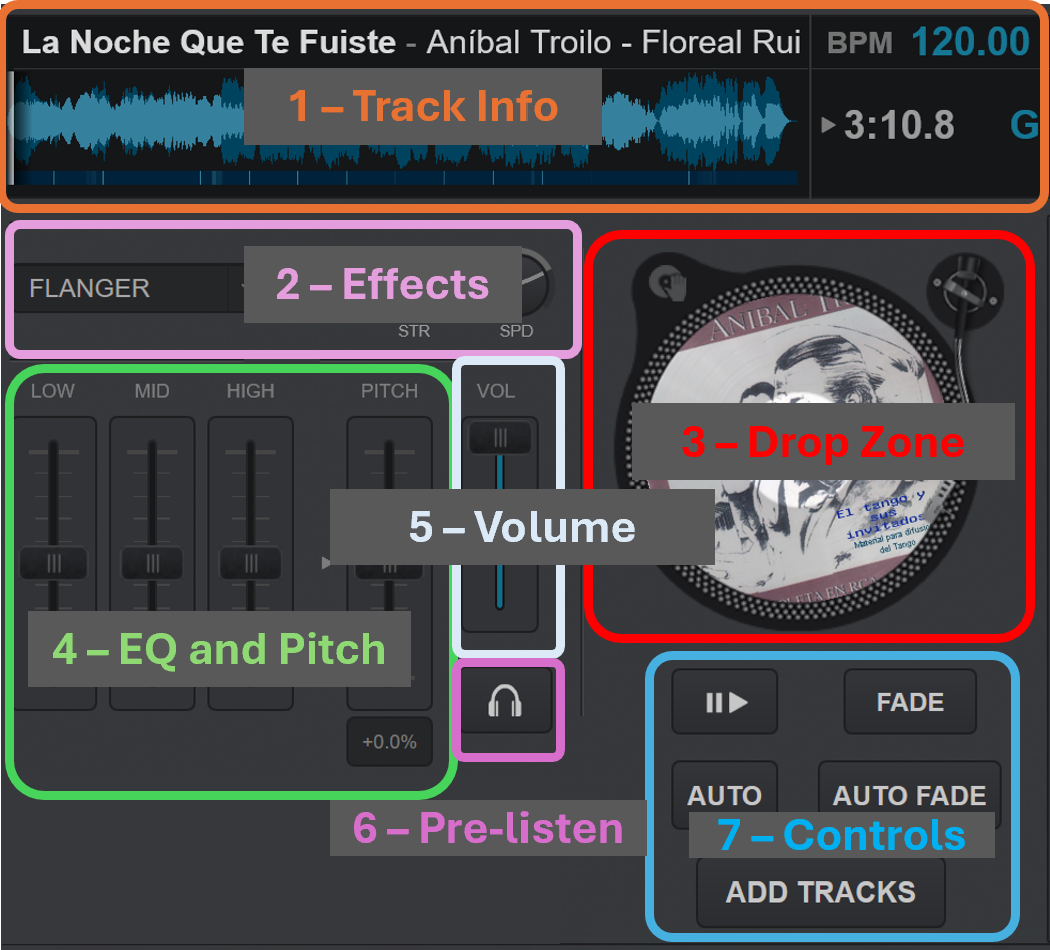
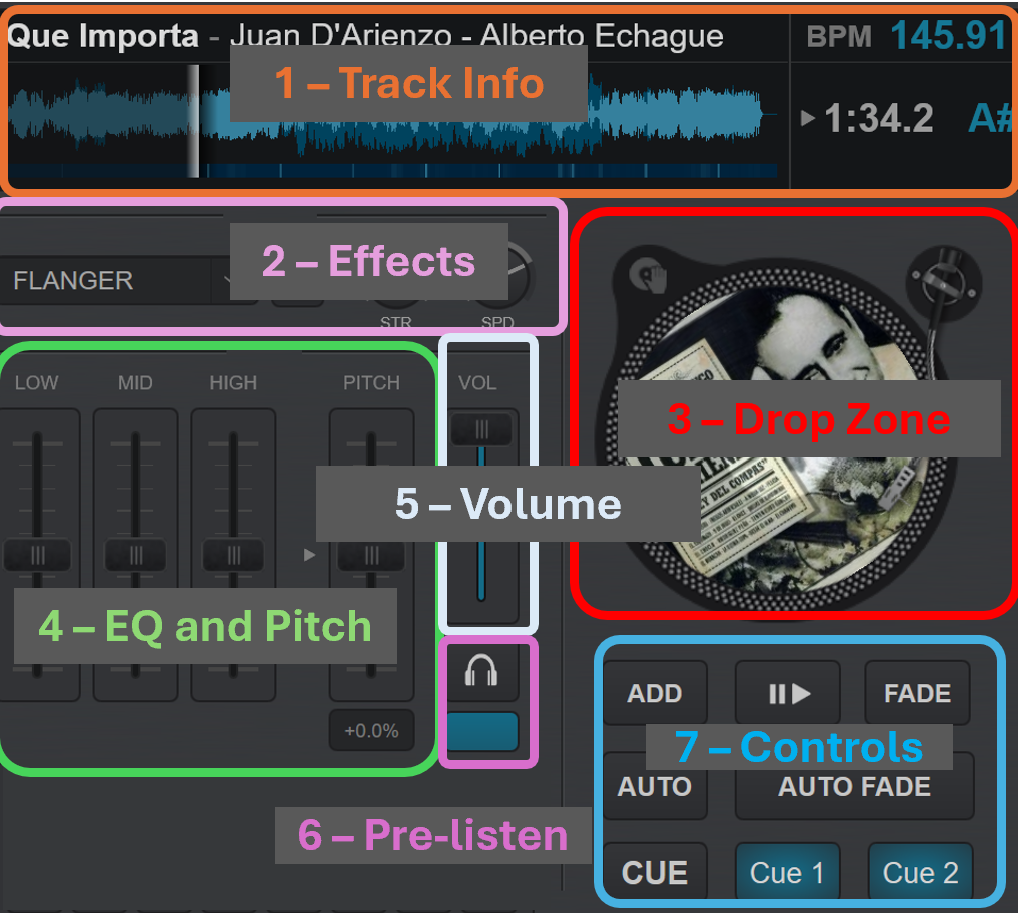
Update documentation

diff --git a/README.md b/README.md
@@ -84,6 +84,8 @@ Additional recommended options for the automix:
 * automixDoubleClick nothing
 * automixTempoMode normal tempo
 
+TigerTango has implemented 2 Cue buttons to help with staring Cortinas or songs from points other than the beginning, and for allowing the ability to loop portions of the song. We recommend changing the setting **autoSortCue** to yes. This will order cue positions chornologically.
+
 If you are using the version on VirtualDJ (non development version) then you will want to check to make sure that **fader_start** is turned off as well. This is the default, but can get switched if you try out other skins.
 
 If you are DJing for a show and want to turn background notifications off then consider setting **exclusiveAudioAcess**
@@ -226,7 +228,14 @@ Some tango music has been transferred at an incorrect pitch. If you happen to no
 
 > [!NOTE] The Development verion has also implemented an 'ADD TRACKS' button. If you select a set of tracks and click this button, it will add them to the bottom of the automix list.
 
-TigerTango has also implemented an **ADD TRACKS** button. If you select songs and then click the ADD TRACKS button, it will add these songs to the bottom of the automix playlist. A "TRACKS ADDED" text will briefly be displayed when the tracks are added.
+TigerTango has also implemented an **ADD** button. If you select songs and then click the ADD TRACKS button, it will add these songs to the bottom of the automix playlist. An "ADDED" text will briefly be displayed when the tracks are added.
+
+8. **Cues**
+Tiger Tango has implemented a Cue button and two hot cues. These can be used to start cortinas part of the way through the song, and can be used to loop sections of a song.
+* Select a point in a track and left click a hotkey button to set its hotkey at that location.
+* Click on the hotkey again to start the song from that point
+* Right click to remove a hotkey
+* Right click the cue button to toggle between cue points. You can customize what the left click button does.
 
 ### Master
 
@@ -255,7 +264,19 @@ The Info section presents the following:
 5. Settings menu (gear icon). Click to open the Virtual DJ settings option.
 
 ### Toolbox
-The Toolbox section has two additional plugin areas. In addition, the toolbox includes several warning icons. Some Virtual DJ settings can cause TigerTango to not work as expected. If a warning icon lights up this means that a setting is not as recommended. Click on a lighted warning light to change the setting to what is recommended for TigerTango.
+The Toolbox section has an additional plugin areas. It also has a button which opens the recording editor. This can be useful for creating snippets of songs or for quickly recording silence to pad songs or to be used as dummy markers for tanda breaks.
+
+The toolbox also includes several warning icons. Some Virtual DJ settings can cause TigerTango to not work as expected. If a warning icon lights up this means that a setting is not as recommended. Click on a lighted warning light to change the setting to what is recommended for TigerTango. The following warnings are implemented:
+
+* Warning if soundcard is throwing error. Click to open audio settings
+* Check if Automix double click is set to nothing. Click to change to suggested setting, right click to supress warning
+* Double deck automix check. (Automix button only works with double deck) Click to change to double deck. Right click to supress warning.
+* Automix setting check. Some automix options will fade songs before their completion. Click to set to back-to-back. Right click to set to skip silence at start and end of songs.
+* Automix tempo check. Incorrect setting could cause tempo changes when switching between songs.
+* Automix fade length check. Setting the automix fade length as a positive number will clip the end of the song when using some automix types. Setting to negative number will give a gap between songs (ideal for tango). Click to set to -3 (3 second gap). Right click to set to 0.
+* Crossfader check. TigerTango is designed to work with the crossfader disabled. If enabled can cause songs to not play.
+* Fader Start check. If fader start is on, then will cause issues with fade and auto fade buttons. Click to disable
+* Auto settings check. Checks that Auto match key, pitch, and tempo are turned off.
 
 ### Panels
 Click on a panel to open an adjustable panel window. The following panels are options
